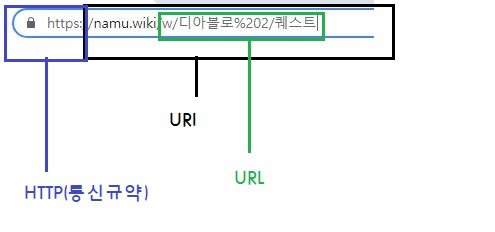
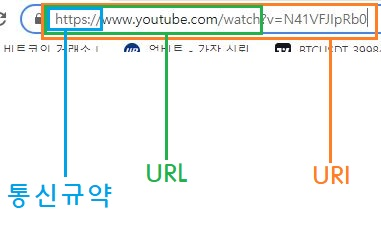
jsp 포스트
jsp포스트
uri ㅕurl 잘못된 정보 수정

Changed region(s): [[0.0, 0.0, 1.0, 0.9052], [0.3176, 0.4828, 0.4042, 0.5431]]

diff --git a/_posts/2021-10-21-JSPbasic.md b/_posts/2021-10-21-JSPbasic.md
@@ -1,0 +1,322 @@
+---
+title:  "JSP 기초"
+excerpt: "동작구조와 기본 구성"
+categories:
+ - TIL
+tags:
+ - [web,server,study,TIL,JSP]
+last_modified_at: 2021-10-21
+toc: true
+toc_sticky: true
+---
+
+# JSP 기본
+
+<br>
+
+## 1. What is JSP ?!
+
+<br>
+
+
+### 1-1 JSP의 개념
+<br>
+
+
+`JSP`란 'Java Server Pages' 의 줄임말로서 Java언어를 기반으로 하는 Server Side 스크립트 언어이다.
+
+
+
+HTML 코드 안에 JAVA코드를 작성하여 동적웹페이지(***Servelt***)을 생성해주는 웹 어플리케이션 도구이다.
+
+
+
+Servlet은 동적웹페이지를 생성하기 위해서 필수적인 도구이나 문제는 구조 자체가 너무 복잡하고 이런이유로 사용법이 어렵고 작성하는데 시간이 많이 소요된다는 단점이 존재했다.
+
+
+
+JSP는 이런 단점들을 해결해줄 수 있는 해결사인 것이다.
+
+
+
+JSP는 HTML코드의 기본적인 틀 안에서 작성된다.
+
+하지만 파일 확장자는 .JSP / .HTML 로 차이가 있고, JSP안에 내장된 여러 요소들을 통해 다양한 기능을 사용할 수 있다.
+
+
+
+JSP파일을 실행 한다는 의미는 Servelt을 만들어서 해당 Servlet을 실행한다고 볼 수 있다.
+
+
+
+### 1-2 JSP 동작 원리
+
+<br>
+
+
+대략적인 동작 구조를 그림으로 그리자면 이렇다.
+
+![JSP동작원리](\assets\images\JSP과정.jpg)
+
+
+
+순서는 다음과 같다.
+
+
+
+1. **클라언트가 서버에게 JSP 파일을 요청한다.**
+2. **서버는 WAS에게 요청한다.**
+3. **WAS는 해당 JSP파일의 Servlet이 컨테이너에 존재하는지 여부를 확인한다.**
+4. **없다면 JSP파일을 실행시킨다.**
+5. **JSP파일은 HTML에 작성된 코드를 Java코드로 작성된 .java 형식의 서블릿 파일로 만든다.**
+6. **이하는 서블릿이 동작하는 원리와 같다.**
+
+
+
+이렇듯 jsp는 간단하게 말해 HTML코드로 Servlet을 만드는 도구인 것이다.
+
+결국 WAS에 객체를 전달하고 동적 웹페이지를 만드는 것은 Servlet의 몫이다.
+
+
+
+## 2. JSP의 구성요소
+
+<br>
+
+
+JSP에는 많은 요소들로 이루어져 있으며, 모든 요소들은 좀 더 편리하게 동적 웹페이지를 만들 수 있도록 도움을 준다.
+
+
+
+요소들은 크게 6가지로 나눌 수 있다.
+
+
+
+- **스크립트(Script) 요소**
+- **지시어(directive)**
+- **내장객체**
+- **액션태그**
+- **표현언어**
+- **사용자 정의 태그**
+
+
+
+이중에서 가장 기본적인 스크립트요소, 지시어, 내장객체까지 3가지만 간략하게 서술해보겠다.
+
+
+
+### 2-1 스크립트(Script)요소
+
+<br>
+
+
+|    이름    |   작성법   |                          특징                          |
+| :--------: | :--------: | :----------------------------------------------------: |
+| 스크립트릿 | <% ··· %>  | JSP 페이지 내부에 HTML코드가 아닌 JAVA코드를 작성한다. |
+|    선언    | <%! ··· %> |      멤버변수나 메소드를 선언하기 위해 작성한다.       |
+|   표현식   | <%= ··· %> |                     값을 불러온다.                     |
+
+
+
+`스크립트`는 가장 기본이 되는 요소이다.
+
+각 요소별로 조금 자세히 알아보자.
+
+
+- **스크립트릿**
+
+   
+
+    실제로 대부분의 JAVA 코드가 작성 되는 부분이다.
+ 
+    스크립트 립안에는 Java코드만이 작성 가능하며, 다른 요소들은 올 수 없다.
+
+  > ex) <% out.print ("오류남"); <!% 변수%> %>와 같이 작성하면 오류가 발생한다.
+
+    html 태그는 태그간 중첩이 가능하지만 JSP는 안 된다는 점에 유의하여 작성해야한다.
+
+    스크립트릿안에 HTML 코드를 작성하고 싶다면 내장객체인 out을 이용해 out.print("HTML코드") 이런식으로 작성하면 된다.
+
+  
+
+- **선언**
+
+  
+
+    Java의 전역변수와 비슷한 멤버변수를 선언할 수 있다. 
+
+    선언부에 메소드를 선언할 수 있다. 
+
+    멤버변수는 java에서 클래스안에 static으로 선언된 필드와 비슷하다고 보면 된다. 
+
+   
+
+- **표현식**
+
+   
+
+    변수의 값 또는 메소드의 호출 값을 출력한다.
+
+    결과는 String 타입으로 출력되며 세미클론을 넣지 말아야한다.
+
+    out.print 메소드와 비슷한 역할이지만 표현식은 하나의 요소에 대한 값만을 출력할 수 있다.
+
+
+
+
+
+대략적인 사용법을 코드로 보자.
+
+
+
+```jsp
+<%@ page language="java" contentType="text/html; charset=UTF-8"
+	pageEncoding="UTF-8"%>
+<!DOCTYPE html>
+<%!public int sum(int a, int b) {
+		int x = a + b;
+		return x;
+	}
+	String x = "표현식 사용";%>
+<html>
+<head>
+<meta charset="UTF-8">
+<title>Insert title here</title>
+</head>
+<body>
+	<%
+	for (int i = 0; i < 5; i++) {
+		out.print(i + "<br>");
+	}
+	out.print("스크립트릿" + "<br>");
+	out.print("메소드사용 <br> 함수사용 : " + sum(3, 4) + "<br>");
+	%>
+	<%=x%>
+</body>
+</html>
+```
+
+
+
+출력 화면은 다음과 같다.
+
+![스크립트릿예시](\assets\images\스크립트릿예시.JPG)
+<br>
+
+<hr>
+
+### 2-2 지시어(Directives)
+
+<br>
+
+
+
+
+`지시어`는 JSP에 대한 설정 또는 페이지에 다른 문서를 포함 할 때 사용한다.
+
+컨테이너에게 해당 jsp 페이지를 어떻게 처리해야할지 전달하는 디테일한 설정과 정보을 담고 있다.
+
+
+
+구성은 다음과 같다.
+
+
+
+|     이름      |       작성법        |                          특징                          |
+| :-----------: | :-----------------: | :----------------------------------------------------: |
+|  page지시어   |   <%@ page ··· %>   |   JSP 를 처리하기 위해 필요한 속성을 부여할 수 있다.   |
+| include지시어 | <%@ include ···  %> | 해당 페이지에 다른HTML이나 JSP페이지를 삽입할 수 있다. |
+|    taglib     | <%@ taglib ···  %>  |        커스텀 태그 라이브러리를 사용할 수 있다.        |
+
+
+
+각 요소별로 간략하게만 알아보자
+
+
+
+- **Page 지시어**
+
+  
+
+  
+
+   보통 소스 코드 가장 상단에 작성해주는 지시어이다.
+
+   사용할 수 있는 여러 속성들이 있으며 여기에 서술하기보단 잘 정리한 [블로그 링크](https://sourcestudy.tistory.com/290)를 남겨두겠다.
+
+   이클립스에서 JSP파일을 생성하면 가장 상단에 있는 
+
+  ```jsp
+  <%@ page language="java" contentType="text/html; charset=UTF-8"
+  	pageEncoding="UTF-8"%>
+  ```
+
+   이 코드가 대표적인 page지시어이며 3개의 속성이 사용된 예이다.
+
+  
+
+  
+
+- **include 지시어**
+
+  
+
+  
+
+  
+
+   해당 JSP페이지에 HTML이나 다른 JSP페이지를 추가해줄 때 쓴다.
+
+   속성은 file속성 단 하나 뿐이며 URL주소를 속성 값으로 가진다.
+
+   footer 나 블로그 상단 메뉴, 사이드 바등 공통되는 것들을 사용할 때에 좋다.
+
+   사용할 수 있는 include에는 제한은 없다.
+
+   서블릿 컴파일 과정은 단 한번만 이뤄진다.
+
+   include된 파일에서 또 include 하는 중첩 사용도 가능하다.
+
+  
+
+- **taglib 지시어**
+
+  
+
+  
+
+   taglib지시어는 JSTL (JSP Standard Tag Library)이나 커스텀 태그 등 태그 라이브러리를
+
+   JSP에서 사용할 때 접두사를 지정하기 위해 사용한다.
+
+   taglib 지시어는 uri속성과 prefix속성의 두 가지 속성으로 이루어져있다.
+
+
+
+### 2-3 내장객체(Implicit Object)
+
+<br>
+
+
+JSP컨테이너로 인해 따로 객체를 생성한다거나 선언하지 않고 바로 사용할 수 있는 사전 정의된 java 객체이다.
+
+
+
+하나하나 설명하고 예를 들기엔 너무 피곤하고 기본 글치고 너무길어지니 대략적인 표로만 정리하겠당.
+
+
+
+| 이름        | 특징                                                         |
+| ----------- | ------------------------------------------------------------ |
+| request     | 클라이언트에서 서버로 보내지는 요청이 담긴 객체(ex.request.getParameter()) |
+| response    | 서버에서 클라이언트로 보내지는 응답이 담긴 객체              |
+| out         | 출력을 클라이언트로 보내는 객체 (ex. out.print())            |
+| session     | 서버측 웹컨테이너에 사용자의 상태를 관리하는 객체            |
+| application | 어플리케이션 전반적인 정보를 관리하는 객체                   |
+| config      | 페이지와 관련된 서블릿 설정 객체                             |
+| pageContext | 현재 페이지의 내용을 저장하는 객체                           |
+| page        | 페이지에 대한 실제 클래스를 저장하고 있는 객체               |
+| Exception   | 이전 페이지의 에러를 저장하고 있는 객체(예외처리시 자주 쓰인다.) |
+
+
+

diff --git a/_posts/2021-10-14-WebandServer.md b/_posts/2021-10-14-WebandServer.md
@@ -111,13 +111,11 @@ HTML 은 고유의 규칙 하에 작성된 TEXT 코드로 구성되어있다.
 
 
 
-`URI` 는 ip주소(도메인) 과 내가 찾고 싶은 정보의 폴더와 파일 이름으로 이루어져있다.
-
-여기서 우리가 일반적으로 사용하는 'naver.com', 'namu.wiki' 같은 도메인은 서버에 '요청 '할 때에 DNS라는 서비스를 통해 IP로 해석되어 요청하고자 하는 서버의 주소로 변환되게 된다.
+`URI` 는 자원의 위치 + 자원을 식별하는 식별자 까지 나타나 있는 인터넷 주소의 전체 부분에 해당한다고 볼 수 있다. 
 
 
 
- `URL` 은 위의 폴더와 파일명 부분 즉 찾고 싶은 정보의 정확한 위치와 이름을 포함한다.
+ `URL` 은 요청하고자 하는 자원의 위치를 나타낸다. URI보다 작은 개념이라고 보면 된다.
 
 <br>
 
